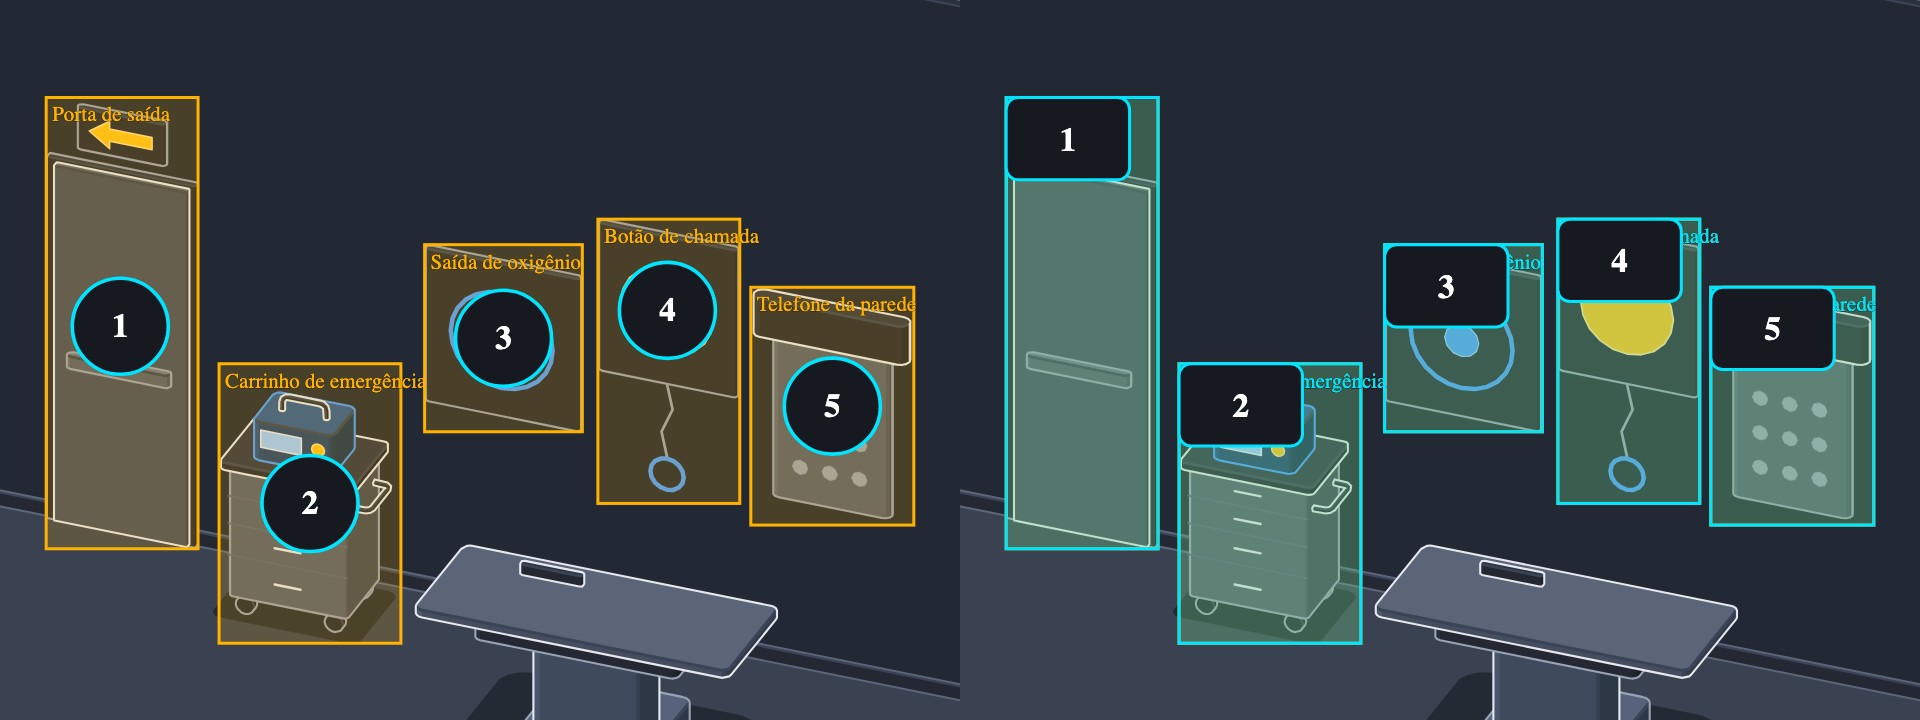
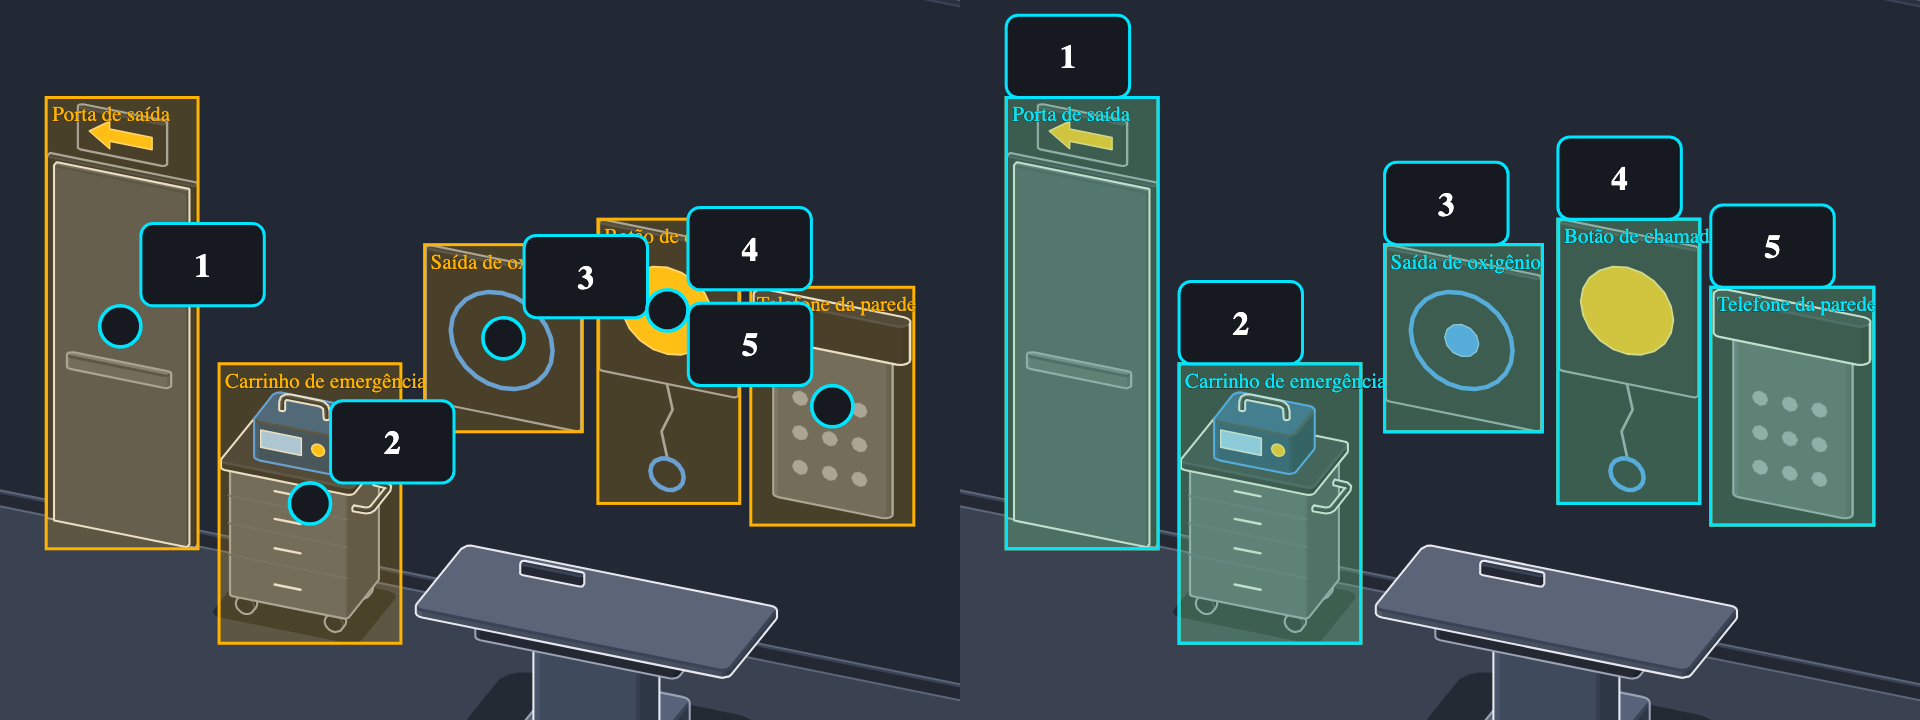
docs(figuras): prévias e medidas do lote 2A com o selo e o marcador fora do objeto; pontos do m19-03 sem selos sobrepostos

diff --git a/radiant-app/src/features/student-checkpoints/batches/rtg-2026-m19.ts b/radiant-app/src/features/student-checkpoints/batches/rtg-2026-m19.ts
@@ -6,7 +6,7 @@ export const RTG_2026_M19: ProductionBatchV1 = {
   "schemaVersion": 1,
   "state": "promoted",
   "batchId": "batch:rtg-2026:m19",
[2 lines of base64/hex data omitted]
   "trackId": "track:rtg-2026:m19",
   "unitId": "unit:rtg-2026:m19",
   "contentVersion": "rtg-2026-m19-v1",
@@ -891,7 +891,7 @@ export const RTG_2026_M19: ProductionBatchV1 = {
                 {
                   "id": "point:rtg-2026:m19:aula-03:i2:1",
                   "x": 0.339,
-                  "y": 0.36,
+                  "y": 0.372,
                   "where": "à esquerda, a espiral dentro da capa",
                   "correctLabelId": "label:rtg-2026:m19:aula-03:i2:1"
                 },
@@ -912,7 +912,7 @@ export const RTG_2026_M19: ProductionBatchV1 = {
                 {
                   "id": "point:rtg-2026:m19:aula-03:i2:4",
                   "x": 0.35,
-                  "y": 0.14,
+                  "y": 0.16,
                   "where": "a parede curva que envolve todo o conjunto",
                   "correctLabelId": "label:rtg-2026:m19:aula-03:i2:4"
                 }
@@ -6585,7 +6585,7 @@ export const RTG_2026_M19: ProductionBatchV1 = {
       "reviewerRole": "ai-review-delegated",
       "reviewerRef": "claude-fable-5.1:ADR-2026-11-05",
       "decidedAt": "2026-11-06T00:00:00.000Z",
[2 lines of base64/hex data omitted]
     },
     {
       "schemaVersion": 1,
@@ -6594,7 +6594,7 @@ export const RTG_2026_M19: ProductionBatchV1 = {
       "reviewerRole": "ai-review-delegated",
       "reviewerRef": "claude-fable-5.1:ADR-2026-11-05",
       "decidedAt": "2026-11-06T00:00:00.000Z",
[2 lines of base64/hex data omitted]
     },
     {
       "schemaVersion": 1,
@@ -6603,7 +6603,7 @@ export const RTG_2026_M19: ProductionBatchV1 = {
       "reviewerRole": "ai-review-delegated",
       "reviewerRef": "claude-fable-5.1:ADR-2026-11-05",
       "decidedAt": "2026-11-06T00:00:00.000Z",
[2 lines of base64/hex data omitted]
     },
     {
       "schemaVersion": 1,
@@ -6612,7 +6612,7 @@ export const RTG_2026_M19: ProductionBatchV1 = {
       "reviewerRole": "ai-review-delegated",
       "reviewerRef": "claude-fable-5.1:ADR-2026-11-05",
       "decidedAt": "2026-11-06T00:00:00.000Z",
[2 lines of base64/hex data omitted]
     },
     {
       "schemaVersion": 1,
@@ -6621,7 +6621,7 @@ export const RTG_2026_M19: ProductionBatchV1 = {
       "reviewerRole": "ai-review-delegated",
       "reviewerRef": "claude-fable-5.1:ADR-2026-11-05",
       "decidedAt": "2026-11-06T00:00:00.000Z",
[2 lines of base64/hex data omitted]
     },
     {
       "schemaVersion": 1,
@@ -6630,7 +6630,7 @@ export const RTG_2026_M19: ProductionBatchV1 = {
       "reviewerRole": "ai-review-delegated",
       "reviewerRef": "claude-fable-5.1:ADR-2026-11-05",
       "decidedAt": "2026-11-06T00:00:00.000Z",
[2 lines of base64/hex data omitted]
     }
   ],
   "promotedAt": "2026-11-06T00:00:00.000Z",

diff --git a/docs/evidence/2026-11-19-figuras/lote-2A/medidas.md b/docs/evidence/2026-11-19-figuras/lote-2A/medidas.md
@@ -2,71 +2,139 @@
 
 Data das medidas: 2026-11-20. Nove interações usam as seis figuras novas; todas estão abaixo. Método e limites no fim.
 
-**Como ler.** Cada percentual é da **área de toque** que o app usa (`hotspotTouch.ts`, quadro de 280 x 210 pt: a região ou o ponto, ampliada em torno do centro até 44 pt por eixo), ou do **objeto** inteiro quando a coluna diz "cobre". Selo do hotspot: 36 x 24 pt no canto superior esquerdo da região, empurrado para dentro do quadro. Marcador do label: círculo de 28 pt centrado no ponto (nas cenas da m17 a medida usa a caixa quadrada de 28 pt em volta do ponto, que é um pouco mais conservadora que o círculo). O "objeto" é a peça nomeada pelo alvo; "fundo" é o que não é peça nenhuma (nas cenas da m17, a parede e o piso da sala; no tubo, nada desenhado); "outras peças" são as demais peças da cena que aparecem na área. As peças são medidas uma a uma, então os percentuais podem somar mais de 100 % (o vidro do tubo é uma casca transparente sobre o conjunto todo).
+**Como ler.** Na seção da área de toque, cada percentual é da **área de toque** que o app usa (`hotspotTouch.ts`, quadro de 280 x 210 pt: a região ou o ponto, ampliada em torno do centro até 44 pt por eixo; o selo novo não a muda). Na seção do selo e do marcador, é do **objeto** inteiro. O "objeto" é a peça nomeada pelo alvo; "fundo" é o que não é peça nenhuma (nas cenas da m17, a parede e o piso da sala; no tubo, nada desenhado); "outras peças" são as demais peças da cena que aparecem na área. As peças são medidas uma a uma, então os percentuais podem somar mais de 100 % (o vidro do tubo é uma casca transparente sobre o conjunto todo).
 
 **Regra do brief do integrador:** a área da resposta certa não pode mostrar mais da estrutura de uma resposta errada do que da própria estrutura. Resultado: em nenhuma das três interações de hotspot a área de uma resposta certa mostra o objeto de uma resposta errada (m17-04: apoio e mesa mostram só receptor e fundo; m17-06: botão e telefone, "nenhum"; m19-06: ânodo mostra só os terminais metálicos da própria haste e o vidro). O contrário existe e está dito: no m19-06, a área da **Janela de saída** (errada) mostra 20,8 % de ânodo (a borda baixa do disco), então tocar na ponta de baixo do disco cai na janela; as áreas de toque não se sobrepõem (o verificador confere) e a região do ânodo termina em y = 0,35, acima da área da janela.
 
+## Área de toque (não mudou com o selo novo)
+
 ## m17-01 i2 (label) conferencia-de-identidade
 
-| ponto (nome declarado) | objeto na área de 44 pt do ponto | fundo (sala) | o resto (maca, paciente, outras peças) | marcador (28 pt) cobre do objeto |
-|---|---|---|---|---|
-| L1 Pulseira no punho (0.3223; 0.4966) | 7,7 % | 2,3 % | 90 % | 100 % |
-| L2 Pedido impresso (0.4862; 0.3921) | 30,4 % | 56,6 % | 13 % | 39,6 % |
-| L3 Registro na tela (0.8581; 0.3293) | 80,5 % | 17 % | 2,5 % | 43,8 % |
-| L4 Fala do paciente (cabeça) (0.1600; 0.3984) | 12,8 % | 30,4 % | 56,8 % | 9,3 % |
+| ponto (nome declarado) | objeto na área de 44 pt do ponto | fundo (sala) | o resto (maca, paciente, outras peças) |
+|---|---|---|---|
+| L1 Pulseira no punho (0.3223; 0.4966) | 7,7 % | 2,3 % | 90 % |
+| L2 Pedido impresso (0.4862; 0.3921) | 30,4 % | 56,6 % | 13 % |
+| L3 Registro na tela (0.8581; 0.3293) | 80,5 % | 17 % | 2,5 % |
+| L4 Fala do paciente (cabeça) (0.1600; 0.3984) | 12,8 % | 30,4 % | 56,8 % |
 
 ## m17-04 i2 (hotspot) pontos-de-contato-da-sala
 
-| alvo (nome declarado) | certa | objeto na área de toque | fundo (sala) na área | peças que não são o objeto, na área | selo (36 x 24 pt) cobre do objeto |
-|---|---|---|---|---|---|
-| 1 Maçaneta da porta | não | 16,8 % | 0 % | porta 80,2 % | 100 % |
-| 2 Apoio do receptor vertical | sim | 12 % | 52,4 % | receptor 32 % | 62,2 % |
-| 3 Mesa de exame | sim | 52 % | 44,9 % | receptor 0,5 % | 21,3 % |
-| 4 Manopla do tubo | não | 10,8 % | 69,2 % | tubo 17,1 % | 100 % |
-| 5 Teclado do comando | não | 24,5 % | 32,8 % | comando 37,9 % | 73 % |
+| alvo (nome declarado) | certa | objeto na área de toque | fundo (sala) na área | peças que não são o objeto, na área |
+|---|---|---|---|---|
+| 1 Maçaneta da porta | não | 16,8 % | 0 % | porta 80,2 % |
+| 2 Apoio do receptor vertical | sim | 12 % | 52,4 % | receptor 32 % |
+| 3 Mesa de exame | sim | 52 % | 44,9 % | receptor 0,5 % |
+| 4 Manopla do tubo | não | 10,8 % | 69,2 % | tubo 17,1 % |
+| 5 Teclado do comando | não | 24,5 % | 32,8 % | comando 37,9 % |
 
 ## m17-05 i2 (label) itens-de-emergencia-da-sala
 
-| ponto (nome declarado) | objeto na área de 44 pt do ponto | fundo (sala) | o resto (maca, paciente, outras peças) | marcador (28 pt) cobre do objeto |
-|---|---|---|---|---|
-| L1 Porta de saída (0.1253; 0.4532) | 99 % | 0 % | 1 % | 15,4 % |
-| L2 Carrinho de emergência (0.3229; 0.6993) | 95,5 % | 3,6 % | 0,9 % | 30,6 % |
-| L3 Saída de oxigênio (0.5245; 0.4698) | 96,6 % | 2,8 % | 0,6 % | 37,6 % |
-| L4 Botão de chamada (0.6952; 0.4311) | 90 % | 8,4 % | 1,6 % | 42,6 % |
-| L5 Telefone da parede (0.8670; 0.5641) | 83,6 % | 16,2 % | 0,2 % | 34,5 % |
+| ponto (nome declarado) | objeto na área de 44 pt do ponto | fundo (sala) | o resto (maca, paciente, outras peças) |
+|---|---|---|---|
+| L1 Porta de saída (0.1253; 0.4532) | 99 % | 0 % | 1 % |
+| L2 Carrinho de emergência (0.3229; 0.6993) | 95,5 % | 3,6 % | 0,9 % |
+| L3 Saída de oxigênio (0.5245; 0.4698) | 96,6 % | 2,8 % | 0,6 % |
+| L4 Botão de chamada (0.6952; 0.4311) | 90 % | 8,4 % | 1,6 % |
+| L5 Telefone da parede (0.8670; 0.5641) | 83,6 % | 16,2 % | 0,2 % |
 
 ## m17-06 i2 (hotspot) itens-de-emergencia-da-sala
 
-| alvo (nome declarado) | certa | objeto na área de toque | fundo (sala) na área | peças que não são o objeto, na área | selo (36 x 24 pt) cobre do objeto |
-|---|---|---|---|---|---|
-| 1 Porta de saída | não | 87,3 % | 11,7 % | nenhum | 10,2 % |
-| 2 Carrinho de emergência | não | 59,6 % | 31,4 % | nenhum | 14,5 % |
-| 3 Saída de oxigênio | não | 83 % | 15,1 % | nenhum | 35,1 % |
-| 4 Botão de chamada | sim | 50,6 % | 47,3 % | nenhum | 40,3 % |
-| 5 Telefone da parede | sim | 69,5 % | 29,2 % | nenhum | 29,6 % |
+| alvo (nome declarado) | certa | objeto na área de toque | fundo (sala) na área | peças que não são o objeto, na área |
+|---|---|---|---|---|
+| 1 Porta de saída | não | 87,3 % | 11,7 % | nenhum |
+| 2 Carrinho de emergência | não | 59,6 % | 31,4 % | nenhum |
+| 3 Saída de oxigênio | não | 83 % | 15,1 % | nenhum |
+| 4 Botão de chamada | sim | 50,6 % | 47,3 % | nenhum |
+| 5 Telefone da parede | sim | 69,5 % | 29,2 % | nenhum |
 
 ## m19-03 i2 (label) tubo-raios-x
 
-| ponto (nome declarado) | objeto na área de 44 pt do ponto | fundo (nada desenhado) | outras peças na área | marcador (28 pt) cobre do objeto | marcador sobre o objeto |
-|---|---|---|---|---|---|
-| L1 Cátodo com filamento (0.339; 0.360) | 39,5 % | 0 % | elétrons 0,9 %; vidro 100 % | 22,4 % | 57 % |
-| L2 Ânodo (0.580; 0.200) | 74,6 % | 0 % | vidro 100 % | 15,8 % | 97 % |
-| L3 Janela de saída (0.537; 0.508) | 41,6 % | 4,8 % | ânodo 6,7 %; vidro 35,1 %; feixe 68,6 % | 39,9 % | 54 % |
-| L4 Ampola de vidro (0.350; 0.140) | 67,5 % | 32,5 % | nenhuma | 29,6 % | 84 % |
+| ponto (nome declarado) | objeto na área de 44 pt do ponto | fundo (nada desenhado) | outras peças na área |
+|---|---|---|---|
+| L1 Cátodo com filamento (0.339; 0.372) | 42,6 % | 0 % | elétrons 0,9 %; vidro 100 % |
+| L2 Ânodo (0.580; 0.200) | 74,6 % | 0 % | vidro 100 % |
+| L3 Janela de saída (0.537; 0.508) | 41,6 % | 4,8 % | ânodo 6,7 %; vidro 35,1 %; feixe 68,6 % |
+| L4 Ampola de vidro (0.350; 0.160) | 77,5 % | 22,5 % | nenhuma |
 
 ## m19-06 i2 (hotspot) tubo-raios-x
 
-| alvo (nome declarado) | certa | área de toque (px do quadro de 640) | objeto na área | fundo (nada desenhado) | outras peças na área | selo (36 x 24 pt) cobre do objeto |
-|---|---|---|---|---|---|---|
-| 1 Cátodo com filamento | não | 101 x 116 | 71 % | 8,3 % | vidro 83,8 % | 44,8 % |
-| 2 Ânodo | sim | 293 x 127 | 53,4 % | 16,2 % | terminais 4,4 %; vidro 77 % | 15,2 % |
-| 3 Janela de saída | não | 101 x 101 | 42,7 % | 6,4 % | ânodo 20,8 %; elétrons 2 %; vidro 58,2 %; feixe 44,2 % | 91,9 % |
-| 4 Ampola de vidro | não | 120 x 101 | 77,9 % | 22,1 % | nenhuma | 29,9 % |
+| alvo (nome declarado) | certa | área de toque (px do quadro de 640) | objeto na área | fundo (nada desenhado) | outras peças na área |
+|---|---|---|---|---|---|
+| 1 Cátodo com filamento | não | 101 x 116 | 71 % | 8,3 % | vidro 83,8 % |
+| 2 Ânodo | sim | 293 x 127 | 53,4 % | 16,2 % | terminais 4,4 %; vidro 77 % |
+| 3 Janela de saída | não | 101 x 101 | 42,7 % | 6,4 % | ânodo 20,8 %; elétrons 2 %; vidro 58,2 %; feixe 44,2 % |
+| 4 Ampola de vidro | não | 120 x 101 | 77,9 % | 22,1 % | nenhuma |
 
+## Quanto o selo e o marcador escondem, com a posição nova (E11)
 
-## Limitações aceitas (decisão E4 do controlador, registradas para o dono)
+Posições lidas de `badgeBox` e `labelBadgeBox` (`hotspotTouch.ts`, commit 4bd7adce): o selo de tocar (36 x 24 pt) fica fora da região (acima, senão abaixo, à esquerda, à direita); o ponto do rotular tem 12 pt e o número vai num selo de 36 x 24 pt acima e à direita do ponto (ou na posição livre seguinte). "Antes" é a posição da versão anterior (selo dentro da região, marcador de 28 pt sobre o ponto). "Outro objeto cobrado" é o objeto de outro alvo do mesmo item; "outras peças", o resto da cena (porta, receptor, vidro etc., só o que passa de 1 %). Percentuais do objeto inteiro.
 
-O selo ou o marcador do app ainda esconde **100 %** da pulseira (m17-01, marcador), da maçaneta (m17-04, selo) e da manopla do tubo (m17-04, selo); o teclado perde 73 % e o apoio do receptor 62 % para o selo. Os objetos foram aumentados no desenho, de propósito, e ainda assim não chegam a metade à vista: uma alavanca ou uma alça só ficaria 50 % à vista com mais de 1,25 m de largura na parede. Mudar a posição do selo no app (canto superior esquerdo da região) é pendência do dono, fora deste lote, e vale para todas as figuras. No m19-06, o selo esconde 91,9 % da janela (alvo errado, região pequena de 0,145 x 0,117) e 44,8 % do cátodo (errado); o ânodo, que é a resposta certa, fica 84,8 % à vista.
+### m17-01 i2 (rotular) conferencia-de-identidade
+
+| ponto | marcador antes (28 pt) | ponto de 12 pt esconde do objeto | selo do número esconde do objeto | selo cobre OUTRO objeto cobrado | selo cobre outras peças |
+|---|---|---|---|---|---|
+| L1 Pulseira no punho | 100 % | 81,8 % | 0 % | Fala do paciente (cabeça) 20,5 % | paciente 20,5 % |
+| L2 Pedido impresso | 39,6 % | 12,1 % | 0 % | nenhum | profissional 10,4 % |
+| L3 Registro na tela | 43,8 % | 8,4 % | 16 % | nenhum | nenhum |
+| L4 Fala do paciente (cabeça) | 9,3 % | 2 % | 0 % | nenhum | nenhum |
+
+### m17-04 i2 (hotspot) pontos-de-contato-da-sala
+
+| alvo | certa | selo antes (dentro da região) | selo agora esconde do próprio objeto | cobre OUTRO objeto cobrado do item | cobre outras peças da cena |
+|---|---|---|---|---|---|
+| 1 Maçaneta da porta | não | 100 % | 0 % | nenhum | porta 22,4 % |
+| 2 Apoio do receptor vertical | sim | 62,2 % | 2 % | nenhum | receptor 19,1 % |
+| 3 Mesa de exame | sim | 21,3 % | 0 % | nenhum | nenhum |
+| 4 Manopla do tubo | não | 100 % | 0 % | nenhum | tubo 48,4 % |
+| 5 Teclado do comando | não | 73 % | 0 % | nenhum | comando 23,4 % |
+
+### m17-05 i2 (rotular) itens-de-emergencia-da-sala
+
+| ponto | marcador antes (28 pt) | ponto de 12 pt esconde do objeto | selo do número esconde do objeto | selo cobre OUTRO objeto cobrado | selo cobre outras peças |
+|---|---|---|---|---|---|
+| L1 Porta de saída | 15,4 % | 2,8 % | 7,9 % | nenhum | nenhum |
+| L2 Carrinho de emergência | 30,6 % | 5,4 % | 10,8 % | nenhum | nenhum |
+| L3 Saída de oxigênio | 37,6 % | 6,7 % | 11,5 % | Botão de chamada 18,9 % | botao 18,9 % |
+| L4 Botão de chamada | 42,6 % | 8,2 % | 11,3 % | nenhum | nenhum |
+| L5 Telefone da parede | 34,5 % | 6,4 % | 14,6 % | Botão de chamada 19,5 % | botao 19,5 % |
+
+### m17-06 i2 (hotspot) itens-de-emergencia-da-sala
+
+| alvo | certa | selo antes (dentro da região) | selo agora esconde do próprio objeto | cobre OUTRO objeto cobrado do item | cobre outras peças da cena |
+|---|---|---|---|---|---|
+| 1 Porta de saída | não | 10,2 % | 0 % | nenhum | nenhum |
+| 2 Carrinho de emergência | não | 14,5 % | 0 % | nenhum | nenhum |
+| 3 Saída de oxigênio | não | 35,1 % | 0 % | nenhum | nenhum |
+| 4 Botão de chamada | sim | 40,3 % | 0 % | nenhum | nenhum |
+| 5 Telefone da parede | sim | 29,6 % | 0 % | nenhum | nenhum |
+
+### m19-03 i2 (rotular) tubo-raios-x
+
+| ponto | marcador antes (28 pt) | ponto de 12 pt esconde do objeto | selo do número esconde do objeto | selo cobre OUTRO objeto cobrado | selo cobre outras peças |
+|---|---|---|---|---|---|
+| L1 Cátodo com filamento | 22,4 % | 6,4 % | 0 % | Ampola de vidro 8,9 % | vidro 5,4 % |
+| L2 Ânodo | 15,8 % | 3 % | 3,4 % | nenhum | vidro 5,4 % |
+| L3 Janela de saída | 39,9 % | 9 % | 29,7 % | nenhum | ânodo 7,6 %; vidro 4,5 % |
+| L4 Ampola de vidro | 29,6 % | 6,5 % | 10,1 % | nenhum | nenhum |
+
+### m19-06 i2 (hotspot) tubo-raios-x
+
+| alvo | certa | selo antes (dentro da região) | selo agora esconde do próprio objeto | cobre OUTRO objeto cobrado do item | cobre outras peças da cena |
+|---|---|---|---|---|---|
+| 1 Cátodo com filamento | não | 44,8 % | 0 % | Ampola de vidro 19,8 % | vidro 5,3 % |
+| 2 Ânodo | sim | 15,2 % | 0 % | Janela de saída 44,4 % | elétrons 40,3 %; vidro 5,4 %; janela 44,4 %; feixe 2,3 % |
+| 3 Janela de saída | não | 91,9 % | 0 % | Ânodo 8,2 % | ânodo 11,7 %; elétrons 45,7 %; vidro 5,3 % |
+| 4 Ampola de vidro | não | 29,9 % | 0 % | Cátodo com filamento 17,2 % | cátodo 12,5 % |
+
+## Limitações e vizinhos (posição nova do selo, E11)
+
+Com o selo fora da região, **nenhum selo de tocar esconde mais o próprio objeto** (0 % nas 14 regiões) e o ponto de 12 pt do rotular esconde de 2 % a 9 % dos objetos, exceto a pulseira (81,8 %: o objeto é uma faixa de 0,056 x 0,077 do quadro, menor que o ponto mais o seu contorno). O selo do número esconde de 0 a 30 % do próprio objeto (o pior é a janela do tubo, 29,7 %). O que o selo novo passou a fazer é cair sobre vizinhos; os que passam de 10 % de um OUTRO objeto cobrado do mesmo item:
+
+- **m19-06 (hotspot, tubo):** o selo 2, do ânodo (a resposta certa), cai abaixo da região (não cabe acima) e cobre **44,4 %** da janela (e 40,3 % da fila de elétrons); o selo 4, da ampola, cobre 17,2 % do cátodo; o selo 1, do cátodo, cobre 19,8 % da ampola. Além disso, os selos se sobrepõem uns aos outros: o 1 fica atrás do 4 e o 2 atrás do 3 na prévia, e os números 1 e 2 ficam ilegíveis. A causa é a figura ser compacta (regiões vizinhas de 0,08 a 0,15 do quadro): é pendência de layout do app ou de região, não da arte.
+- **m17-01 (rotular, conferência):** o selo 1, da pulseira, cobre 20,5 % da cabeça do paciente ("Fala do paciente").
+- **m17-05 (rotular, emergência):** os selos 3 (oxigênio) e 5 (telefone) cobrem 18,9 % e 19,5 % do botão de chamada.
+
+Nas demais interações nenhum selo cobre mais de 10 % de outro objeto cobrado: m17-04 e m17-06 têm 0 % em todos (os selos de m17-04 caem sobre peças que não são alvo: a porta, o receptor, o tubo e o comando, de 19 a 48 %).
 
 ## Spec contra fonte
 
@@ -75,6 +143,6 @@ Spec (como o app o recebe, `diagramSvgAt`) e fonte (`scripts/content/figuras/fon
 ## Método
 
 - Cenas: cada fonte foi regenerada pela cena versionada (`scripts/content/figuras/cenas/<id>.mjs`) e comparada byte a byte com o `figura.svg` entregue (6 de 6 iguais); as medidas da m17 foram reproduzidas do zero pelo `build.mjs` do construtor (`medidas.json`, `alvos.json` e `figura.svg` idênticos aos entregues, 3 de 3) e lidas de lá; as do tubo foram feitas de novo sobre as peças do código versionado: cada peça renderizada sozinha em 640 x 480 pelo Chrome headless (alfa maior que 8), e a área e o objeto contados pixel a pixel.
-- Áreas do app: lidas do `m17.json` e do `m19.json` finais (não das tabelas do construtor), com as contas de `hotspotTouch.ts` e o `MARKER = 28` de `LabelStepRenderer.tsx`.
-- Pontos do m19-03 (rotular): escolhidos entre os pontos que ficam SOBRE a própria peça, dentro da região declarada, com o marcador pelo menos 50 % sobre a peça e as áreas de 44 pt sem se tocar, pelos que escondem menos da peça: cátodo (0,339; 0,360), ânodo (0,580; 0,200), janela (0,537; 0,508), ampola (0,350; 0,140). O ponto do ânodo ficou no meio do disco (esconde 15,8 %): os pontos que escondem menos (8 %) caem na borda do disco, com o marcador meio fora dele.
+- Áreas do app: lidas do `m17.json` e do `m19.json` finais (não das tabelas do construtor), com as contas de `hotspotTouch.ts`, incluindo `badgeBox`, `labelBadgeBox` e `LABEL_DOT` do commit 4bd7adce (selo fora da região, ponto de 12 pt, selo do número ao lado). Os selos e o ponto foram posicionados chamando essas funções, não copiando a regra. O ponto é medido como quadrado de 12 pt nas cenas da m17 e como círculo no tubo.
+- Pontos do m19-03 (rotular): escolhidos entre os pontos que ficam SOBRE a própria peça, dentro da região declarada, com o marcador pelo menos 50 % sobre a peça e as áreas de 44 pt sem se tocar, pelos que escondem menos da peça: cátodo (0,339; 0,372), ânodo (0,580; 0,200), janela (0,537; 0,508), ampola (0,350; 0,160); cátodo e ampola subiram e desceram um pouco depois do selo novo, para os selos de número não se sobreporem. O ponto do ânodo ficou no meio do disco (esconde 15,8 %): os pontos que escondem menos (8 %) caem na borda do disco, com o marcador meio fora dele.
 - O que esta medida não prova: se a cena é legível e agradável no aparelho é do dono; não rodei simulador nem `react-native-svg` (a conversão do spec passou nos testes do registro).
